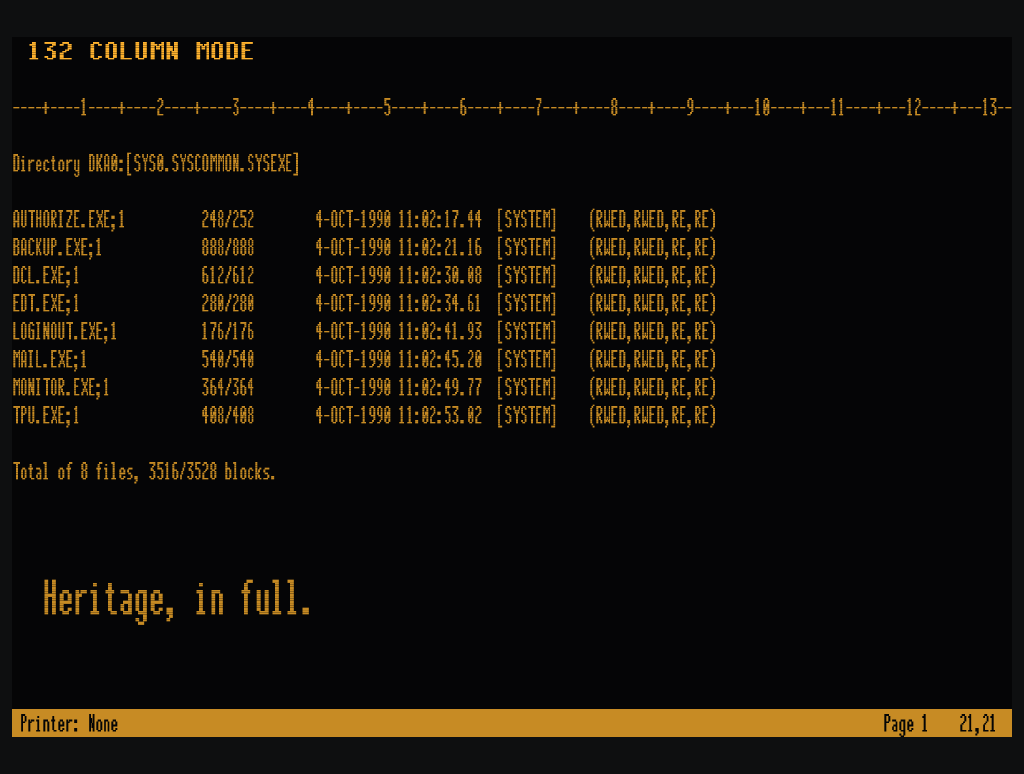
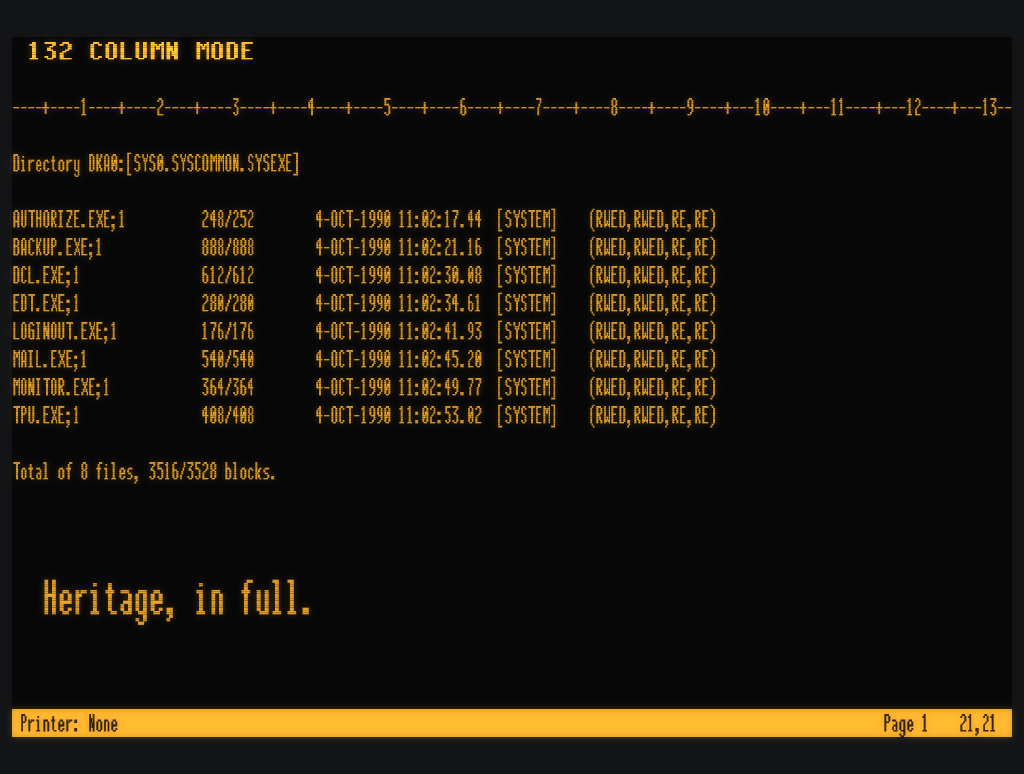
Release 0.7.0; website and screenshots for M7
- Version 0.7.0 with its CHANGELOG section.
- Website: Set-Up and curved-screen screenshots, Set-Up and sound/motion
  feature cards, M7 lit on the roadmap; screenshots recaptured with the
  phosphor glow from a clean configuration (capture.sh saves jump scroll
  so scenes are complete when captured).

Claude-Session: https://claude.ai/code/session_016YDmAmHSpzviSn4u4VuqKw

diff --git a/site/index.html b/site/index.html
@@ -322,7 +322,7 @@ footer p { margin: 0 0 8px; }
         <h1>The DEC terminal,<br><em>kept alive.</em></h1>
         <p>veetee is an open-source DEC VT terminal for Linux and Windows. It is built from DEC's own programmer references and tested screen by screen, so OpenVMS, DECforms, FMS and EDT behave exactly as they did on the glass.</p>
         <div class="cta">
-          <a class="key gold wide" href="https://github.com/issinoho/veetee/releases/latest"><small>PF1 · Gold</small><strong>Download 0.6.0</strong></a>
+          <a class="key gold wide" href="https://github.com/issinoho/veetee/releases/latest"><small>PF1 · Gold</small><strong>Download 0.7.0</strong></a>
           <a class="key light" href="https://github.com/issinoho/veetee"><small>Find</small><strong>Source</strong></a>
           <a class="key" href="https://github.com/issinoho/veetee/wiki"><small>Help</small><strong>Wiki</strong></a>
         </div>
@@ -368,7 +368,7 @@ footer p { margin: 0 0 8px; }
     <div class="wrap">
       <p class="eyebrow">Real screens, real renderer</p>
       <h2>Every screenshot is veetee.</h2>
-      <p class="lead">No mock-ups: each screen was captured from veetee's own OpenGL renderer, running vttest or a demo script. Original bitmap fonts are drawn dot by dot on DEC's own 10×16 character cells, with scan lines, double-size lines made by doubling the dots, and 132 columns that really narrow the characters.</p>
+      <p class="lead">No mock-ups: each screen was captured from veetee's own OpenGL renderer, running vttest or a demo script, with its phosphor glow. Original bitmap fonts are drawn dot by dot on DEC's own 10×16 character cells, with scan lines, double-size lines made by doubling the dots, and 132 columns that really narrow the characters.</p>
 
       <div class="gallery">
         <figure class="shot">
@@ -386,6 +386,14 @@ footer p { margin: 0 0 8px; }
         <figure class="shot">
           <div class="crt"><div class="screen"><img loading="lazy" src="img/vt525-colour.png" alt="A colour status dashboard using ANSI SGR colours on the VT525 model" width="1024" height="774"></div><span class="led"></span></div>
           <figcaption><b>VT525 colour.</b> SGR colours, alternate text colours for attribute combinations, and a host-loadable 16-colour map reported in RGB or DEC HLS.</figcaption>
+        </figure>
+        <figure class="shot">
+          <div class="crt"><div class="screen"><img loading="lazy" src="img/vt420-setup.png" alt="The VT420 Set-Up Directory in veetee, with the field cursor on Global" width="1024" height="774"></div><span class="led"></span></div>
+          <figcaption><b>F3 is Set-Up.</b> The VT420's own Set-Up screens, field cursor and all: change the display, keyboard and communications settings, then Save them as the power-up settings.</figcaption>
+        </figure>
+        <figure class="shot">
+          <div class="crt"><div class="screen"><img loading="lazy" src="img/vt420-curved-green.png" alt="The order entry form in green phosphor on a curved screen with glow and darker corners" width="1024" height="774"></div><span class="led"></span></div>
+          <figcaption><b>Glass, not pixels.</b> Phosphor glow and afterglow, and an optional curved tube face with darker corners. Lines scroll smoothly at nine a second, as a VT420's did.</figcaption>
         </figure>
         <figure class="shot big">
           <div class="window-shot"><img loading="lazy" src="img/dual-sessions.png" alt="A veetee window split into two sessions, VMS1 order entry above and VMS2 queue monitor below, each with its own title bar" width="1024" height="820"></div>
@@ -408,6 +416,8 @@ footer p { margin: 0 0 8px; }
         <div class="feature"><span class="key light"><small>F4</small><strong>Session</strong></span><h3>Dual sessions</h3><p>Two independent sessions in a split window, just like a VT520 on two comm lines. The host can name each session and make it active.</p></div>
         <div class="feature"><span class="key gold"><small>F5</small><strong>Break</strong></span><h3>Telnet, SSH and serial</h3><p>Native Telnet with binary mode and BREAK, SSH through your OpenSSH setup, and serial lines at DEC factory defaults (9600 8N1 XON/XOFF), on Linux and on Windows COM ports. LAT is on the roadmap.</p></div>
         <div class="feature"><span class="key"><small>F1</small><strong>Hold Screen</strong></span><h3>Power-user touches</h3><p>Hold Screen with real flow control, a visual LK401 keymap editor, VT520 key programming, copy that understands VMS file specs, session recordings that replay as tests, and phosphor, scan-line and dot-stretch rendering.</p></div>
+        <div class="feature"><span class="key gold"><small>F3</small><strong>Set-Up</strong></span><h3>Set-Up, as DEC built it</h3><p>The VT420 Set-Up Directory and its Global, Display, General, Communications, Keyboard and Tab screens, with Save, Recall and Default. Saved settings are the power-up settings.</p></div>
+        <div class="feature"><span class="key"><small>BEL</small><strong>Bell</strong></span><h3>Sound and motion</h3><p>Keyclick, warning and margin bells and DECPS tunes at the Set-Up volumes; smooth scroll at DEC speed with flow control; a CRT saver that blanks an idle screen.</p></div>
         <div class="feature"><span class="key light"><small>SET TERM</small><strong>Inquire</strong></span><h3>Honest identity</h3><p>Device attributes, mode reports, DECRQSS and terminal state reports answer as the chosen model, so <code>SET TERMINAL/INQUIRE</code> sees the terminal you picked.</p></div>
       </div>
     </div>
@@ -427,7 +437,7 @@ footer p { margin: 0 0 8px; }
           <li><span class="year">1987</span><span class="model">VT320</span><span class="note">ISO Latin-1, status lines, presentation and mode reports.</span></li>
           <li><span class="year">1990</span><span class="model">VT420</span><span class="note">Left/right margins, rectangles, page memory, macros, dual sessions.</span></li>
           <li><span class="year">1994</span><span class="model">VT520 · VT525</span><span class="note">VT500 character sets, cursor styles, framed sessions, colour on the VT525.</span></li>
-          <li><span class="year">2026</span><span class="model">veetee 0.6.0</span><span class="note">All of the above, on a Linux or Windows desktop near you. Default: VT420.</span></li>
+          <li><span class="year">2026</span><span class="model">veetee 0.7.0</span><span class="note">All of the above, on a Linux or Windows desktop near you. Default: VT420.</span></li>
         </ul>
       </div>
     </div>
@@ -441,7 +451,7 @@ footer p { margin: 0 0 8px; }
       <div class="stats">
         <div class="stat"><div class="n">18</div><div class="l">vttest scripts across menus 1–8 and 11.1–11.4, compared with golden screens on every commit</div></div>
         <div class="stat"><div class="n">368</div><div class="l">esctest2 tests pass at VT level 5; every other difference is written down with its DEC reason</div></div>
-        <div class="stat"><div class="n">300</div><div class="l">unit tests, written against the manual sections they cite, run on Linux and Windows</div></div>
+        <div class="stat"><div class="n">318</div><div class="l">unit tests, written against the manual sections they cite, run on Linux and Windows</div></div>
         <div class="stat"><div class="n">0</div><div class="l">xterm-isms by default: autowrap off at power-up, Backspace sends DEL, SU/SD pan through page memory</div></div>
       </div>
       <div class="manuals" aria-label="DEC manuals followed">
@@ -464,18 +474,18 @@ footer p { margin: 0 0 8px; }
         <div>
           <h3>Debian and Ubuntu</h3>
           <p>Download the package from the <a href="https://github.com/issinoho/veetee/releases/latest">latest release</a> and install it. GTK 4.12 and libadwaita 1.5 or later are required.</p>
-          <div class="term"><span class="c"># fetch and install veetee 0.6.0</span>
+          <div class="term"><span class="c"># fetch and install veetee 0.7.0</span>
 $ curl -LO https://github.com/issinoho/veetee/\
-    releases/download/v0.6.0/veetee_0.6.0-1_amd64.deb
-$ sudo apt install ./veetee_0.6.0-1_amd64.deb</div>
+    releases/download/v0.7.0/veetee_0.7.0-1_amd64.deb
+$ sudo apt install ./veetee_0.7.0-1_amd64.deb</div>
           <h3 style="margin-top:32px">Windows 10 and 11</h3>
           <p>One zip with GTK included: unzip it anywhere and run <code>bin\veetee.exe</code>. Local sessions use the Windows pseudo console, <code>--ssh</code> uses Windows' OpenSSH client, and <code>--serial COM3</code> opens a COM port.</p>
           <div class="term"><span class="c">REM fetch, unzip and connect in Command Prompt</span>
 &gt; curl.exe -LO https://github.com/issinoho/^
-    veetee/releases/download/v0.6.0/^
-    veetee-0.6.0-x86_64-windows.zip
-&gt; tar -xf veetee-0.6.0-x86_64-windows.zip
-&gt; cd veetee-0.6.0-x86_64-windows
+    veetee/releases/download/v0.7.0/^
+    veetee-0.7.0-x86_64-windows.zip
+&gt; tar -xf veetee-0.7.0-x86_64-windows.zip
+&gt; cd veetee-0.7.0-x86_64-windows
 &gt; bin\veetee --telnet vms1</div>
           <h3 style="margin-top:32px">From source</h3>
           <div class="term"><span class="c"># Rust stable plus GTK 4 development files</span>
@@ -515,9 +525,9 @@ $ SHOW TERMINAL</div>
         <div class="milestone done"><span class="dot"></span><div><b>M3 · VT420</b><span>Margins, rectangles, pages · 0.3.0</span></div></div>
         <div class="milestone done"><span class="dot"></span><div><b>M4 · VT520 / VT525</b><span>Colour, sessions, VT500 sets · 0.4.0</span></div></div>
         <div class="milestone done"><span class="dot"></span><div><b>M5 · Transports</b><span>PTY, Telnet, SSH, serial · LAT to come</span></div></div>
-        <div class="milestone done"><span class="dot"></span><div><b>M6 · Keyboard &amp; apps</b><span>Keymap editor, key programming, recordings · 0.6.0</span></div></div>
-        <div class="milestone next"><span class="dot"></span><div><b>M7 · Fonts &amp; look</b><span>DEC-cell fonts ✓ · sound, CRT mode, Set-Up</span></div></div>
-        <div class="milestone"><span class="dot"></span><div><b>M8 · 1.0</b><span>Profiles, logging, Flatpak</span></div></div>
+        <div class="milestone done"><span class="dot"></span><div><b>M6 · Keyboard &amp; apps</b><span>Keymap editor, key programming, recordings · 0.7.0</span></div></div>
+        <div class="milestone done"><span class="dot"></span><div><b>M7 · Fonts &amp; look</b><span>DEC-cell fonts, Set-Up, sound, CRT · 0.7.0</span></div></div>
+        <div class="milestone next"><span class="dot"></span><div><b>M8 · 1.0</b><span>Profiles, logging, Flatpak</span></div></div>
       </div>
     </div>
   </section>

diff --git a/README.md b/README.md
@@ -6,10 +6,10 @@ and SSH, Telnet, serial and LAT connections.
 
 **Website:** [veetee.issinoho.com](http://veetee.issinoho.com/) · **Documentation:** [wiki](https://github.com/issinoho/veetee/wiki)
 
-**Status:** early development — 0.6.0: the VT100 through VT525 (colour, VT500 character sets,
+**Status:** early development — 0.7.0: the VT100 through VT525 (colour, VT500 character sets,
 dual sessions, page memory, rectangular operations, soft fonts), an LK401 keyboard map with a
-visual editor and VT520 key programming, session recordings, and fonts drawn on DEC's own
-character cells. vttest VT100–VT520 menus pass headless,
+visual editor and VT520 key programming, session recordings, fonts drawn on DEC's own
+character cells, VT420 Set-Up, sound, smooth scrolling and a CRT picture. vttest VT100–VT520 menus pass headless,
 and esctest2 runs at VT level 5 with every difference from xterm explained against DEC
 documentation.
 
@@ -38,10 +38,10 @@ documentation.
 x86_64 Linux tarball, both needing GTK 4.12+ and libadwaita 1.5+:
 
 ```sh
-sudo apt install ./veetee_0.6.0-1_amd64.deb
+sudo apt install ./veetee_0.7.0-1_amd64.deb
 ```
 
-For Windows 10 (1809) or later, unzip `veetee-0.6.0-x86_64-windows.zip` and run
+For Windows 10 (1809) or later, unzip `veetee-0.7.0-x86_64-windows.zip` and run
 `bin\veetee.exe`; the GTK runtime is included. Local command windows use the Windows pseudo
 console, `--ssh` uses Windows' OpenSSH client and `--serial COM3` opens a COM port.
 

diff --git a/CHANGELOG.md b/CHANGELOG.md
@@ -5,6 +5,12 @@ milestones (0.3 = M3). The format follows [Keep a Changelog](https://keepachange
 
 ## [Unreleased]
 
+## [0.7.0] - 2026-09-14
+
+Milestone M7, the look and feel of the terminal: DEC character cell fonts (in 0.6.0), Set-Up,
+sound, smooth scrolling and a CRT picture. The VT500 menu-driven Set-Up and more hand-drawn
+fonts are still to come.
+
 - **CRT look (M7)**: the page is drawn through a post-processing pass with a soft glow around lit
   dots and phosphor afterglow that fades with the phosphor's persistence (short for P4 white,
   longer for P1 green and P3 amber), both on by default, and an optional curved screen with
@@ -135,7 +141,8 @@ The first release: VT100 through VT420 emulation with local, Telnet, SSH and ser
   `cargo deny` licence checks and parser fuzzing.
 - `cargo xtask dist` builds the release tarball and Debian package.
 
-[Unreleased]: https://github.com/issinoho/veetee/compare/v0.6.0...HEAD
+[Unreleased]: https://github.com/issinoho/veetee/compare/v0.7.0...HEAD
+[0.7.0]: https://github.com/issinoho/veetee/compare/v0.6.0...v0.7.0
 [0.6.0]: https://github.com/issinoho/veetee/compare/v0.4.0...v0.6.0
 [0.4.0]: https://github.com/issinoho/veetee/compare/v0.3.0...v0.4.0
 [0.3.0]: https://github.com/issinoho/veetee/releases/tag/v0.3.0
